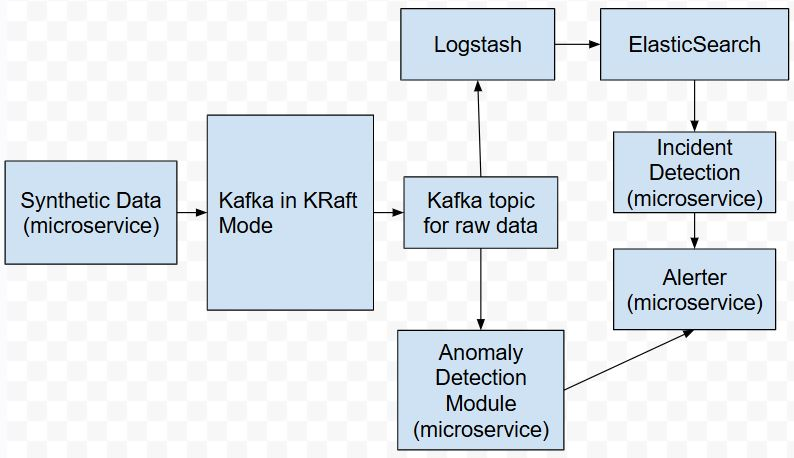
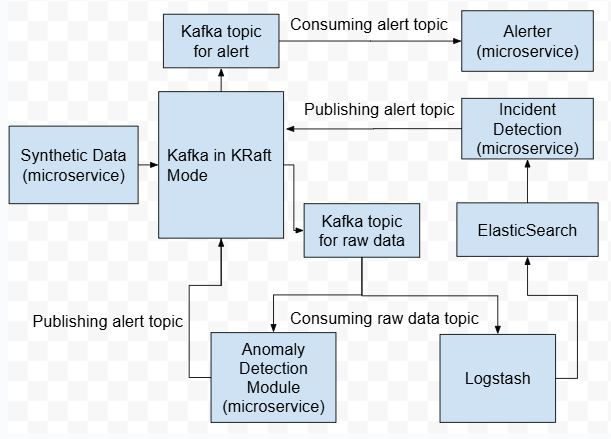
updated blog4

diff --git a/blog/blog4.html b/blog/blog4.html
@@ -55,7 +55,10 @@
         <li>Kafka</li>
         <li>Python</li>
         <li>Flask</li>
+        <li>Java</li>
+        <li>Spring</li>
     </ul>
+    <p><i>NOTE:</i> we could have stuck with either java only stack or python only stack</p>
 
     <h2>Improved design and component wise breakdown</h2>
     <p>The following is an overview of what we are trying to build here:</p>
@@ -63,15 +66,15 @@
 
     <p>The source code can be found <a href="https://github.com/AashishVarier/alerter2.0">here</a></p>
 
-    <h2>Overview </h2>
+    <h3>Overview </h3>
     <ul>
-      <li> Synthetic Data : to generate data. This is the producer / publisher for Kafka.</li>
-      <li>Incident Handling : to identify incidents from data available in elasticsearch DB and trigger alerts.</li>
-      <li>Kafka: pub/sub which act as buffer for generated data.</li>
+      <li> Synthetic Data : to generate data. It publishes raw data topic in Kafka.</li>
+      <li> Incident Handling : to consume raw data topic and identify incidents from data available in elasticsearch DB. It will publish an alert topic to kafka.</li>
+      <li> Kafka: pub/sub which act as buffer for generated data.</li>
       <li> Docker Compose: Used to simulate different servers and to ease the deployment of various services used in this project.</li>
-      <li> Elasticsearch and Logstash: Used as one of the consumer and storage for the generated data.</li>
-      <li>Anomaly Detection: uses windowing and aggregation functions along with isolation forest for anomaly detection.</li>
-      <li>Alerter: at present it is implemented as a separate module mainly to act as event based alerts.</li>
+      <li> Elasticsearch and Logstash: Used as one of the consumer for raw data topic from kafka and as storage for the generated data.</li>
+      <li> Anomaly Detection: to consume raw data topic and use windowing along with isolation forest for anomaly detection.</li>
+      <li> Alerter: at present it is implemented as a separate module mainly to act as event based alerts from alert topic consumed from kafka.</li>
     </ul>
 
     <h3>Docker Compose</h3>
@@ -158,7 +161,7 @@
     <code>curl -X GET "http://{elasticsearch host}:{port}/{index name}/_search?pretty"</code>
 
     <h3>Incident Handling</h3>
-    <p>Primary purpose of this module is to fetch data from Elasticsearch based on queries. </p>
+    <p>Primary purpose of this module is to fetch data from Elasticsearch based on queries and determine incident worth alerting. </p>
     <p><i>Implementation Details:</i></p>
     <ul>
         <li>Query Elasticsearch for last 5 minutes of data.</li>
